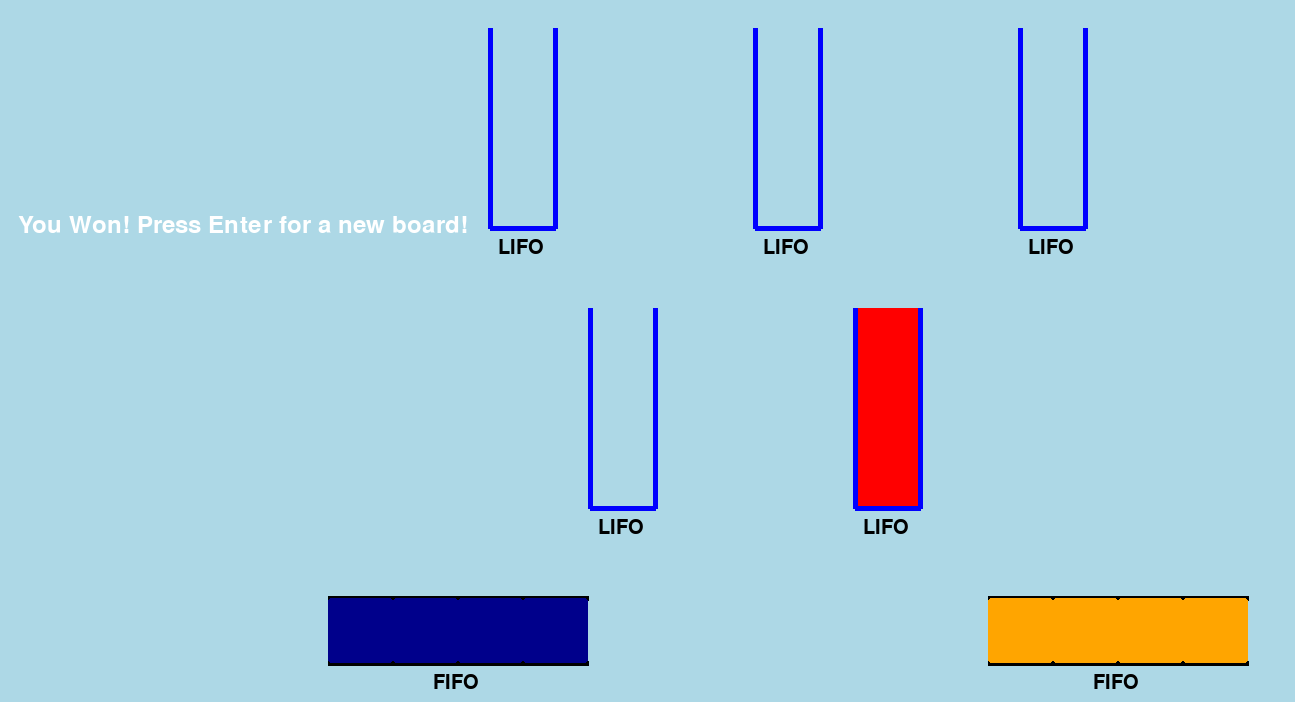
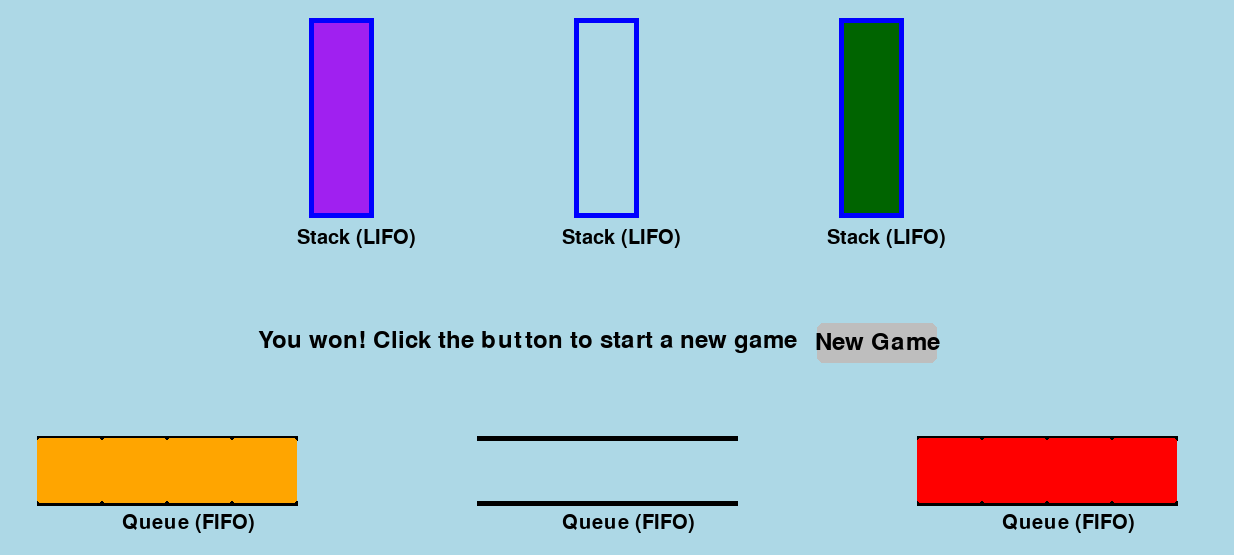
updated page

diff --git a/README.md b/README.md
@@ -6,14 +6,14 @@ Basic Queue Operations (Dequeue, Enqueue) &
 Stack Operations (Pop, Push)
 
 ## <u>Objectives & how to play</u>
-- There are 5 stacks <b>(LIFO)</b> and 2 queues <b>(FIFO)</b>
+- There are 3 stacks <b>(LIFO)</b> and 3 queues <b>(FIFO)</b>
 ![alt text](<images/starting screen.png>)
-- Click on stacks/queues which contains a color block and move them around using Basic Operationns Buttons
+- Click on stacks/queues which contains a color block and move them around using Operations Buttons
 (in this example, a stack is clicked and the <b>pop</b> button appears)
 ![alt text](<images/pop example.png>)
-- Afterwards I click on a queue to enqueue the colored block
+- Afterwards click on a queue to enqueue the colored block
 ![alt text](images/enqueued.png)
-- Goal is to have queues/stacks containing all of the specific colored blocks
+- The goal is to have queues/stacks containing all of the specific colored blocks
 ![alt text](<images/victory screen.png>)
 
 
